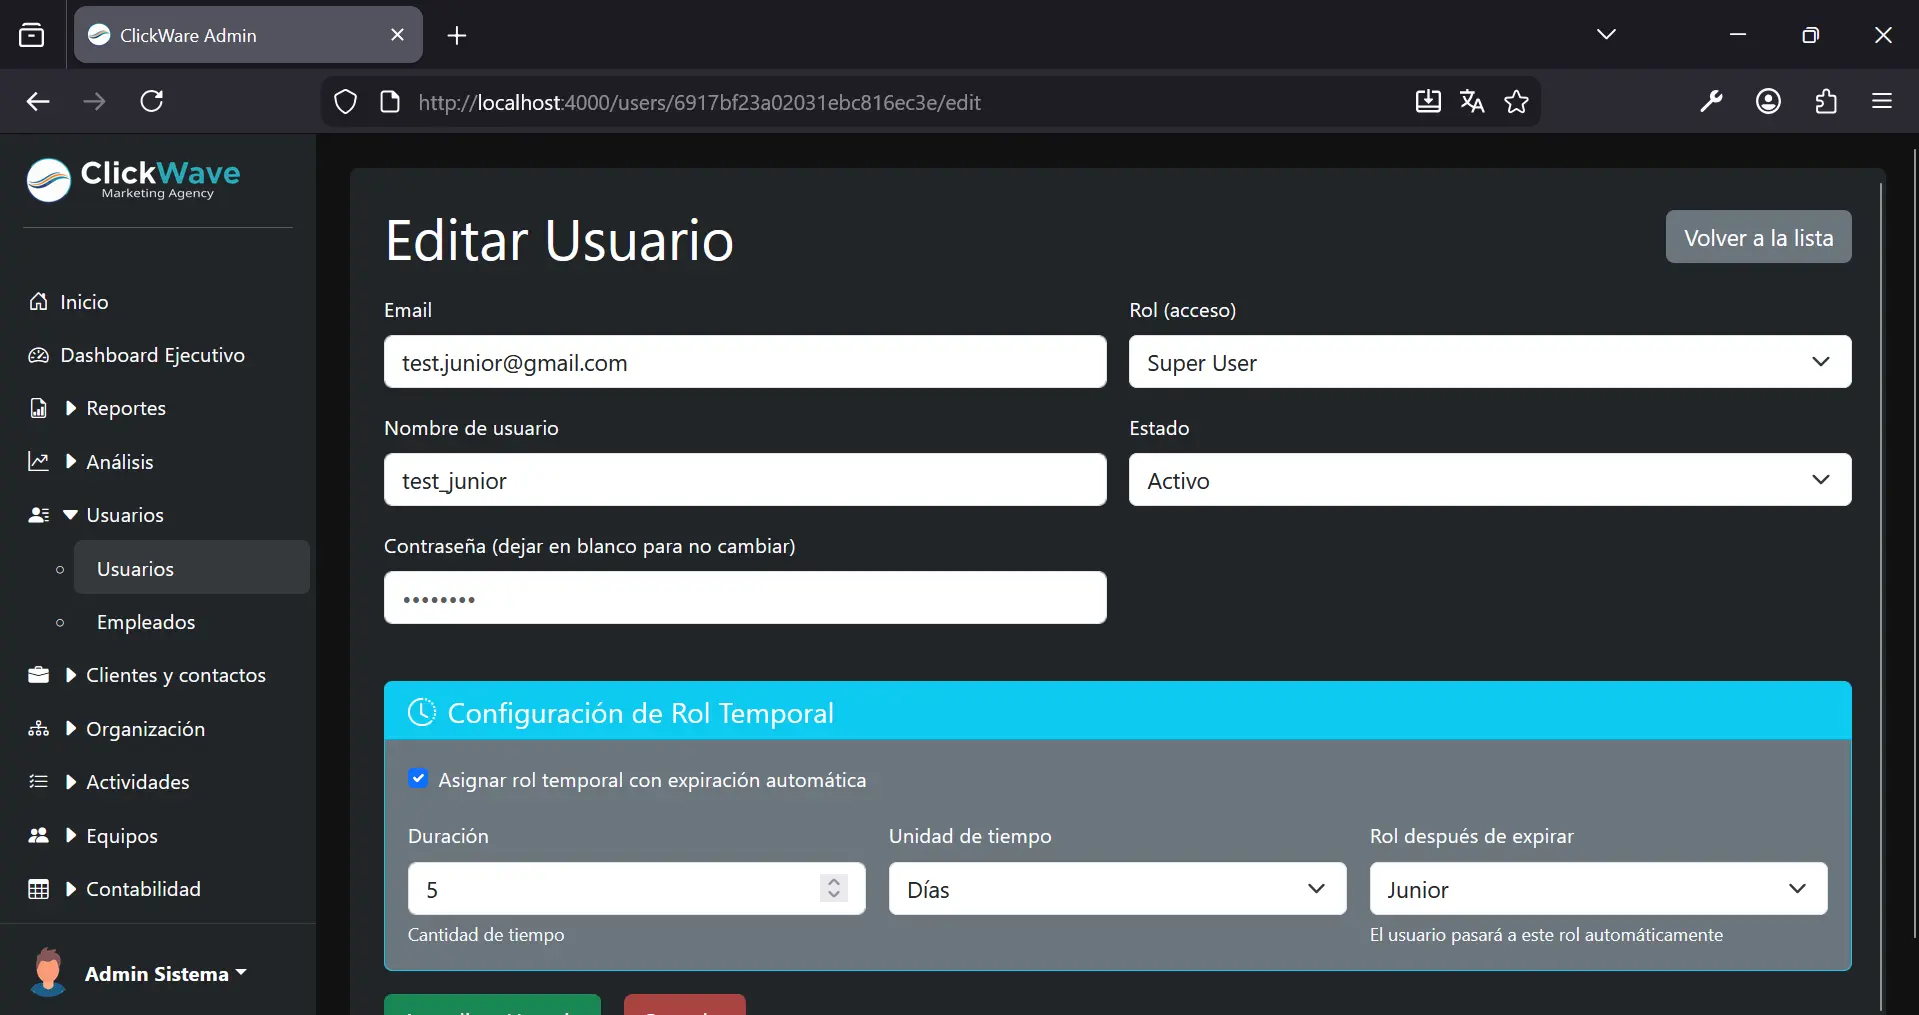
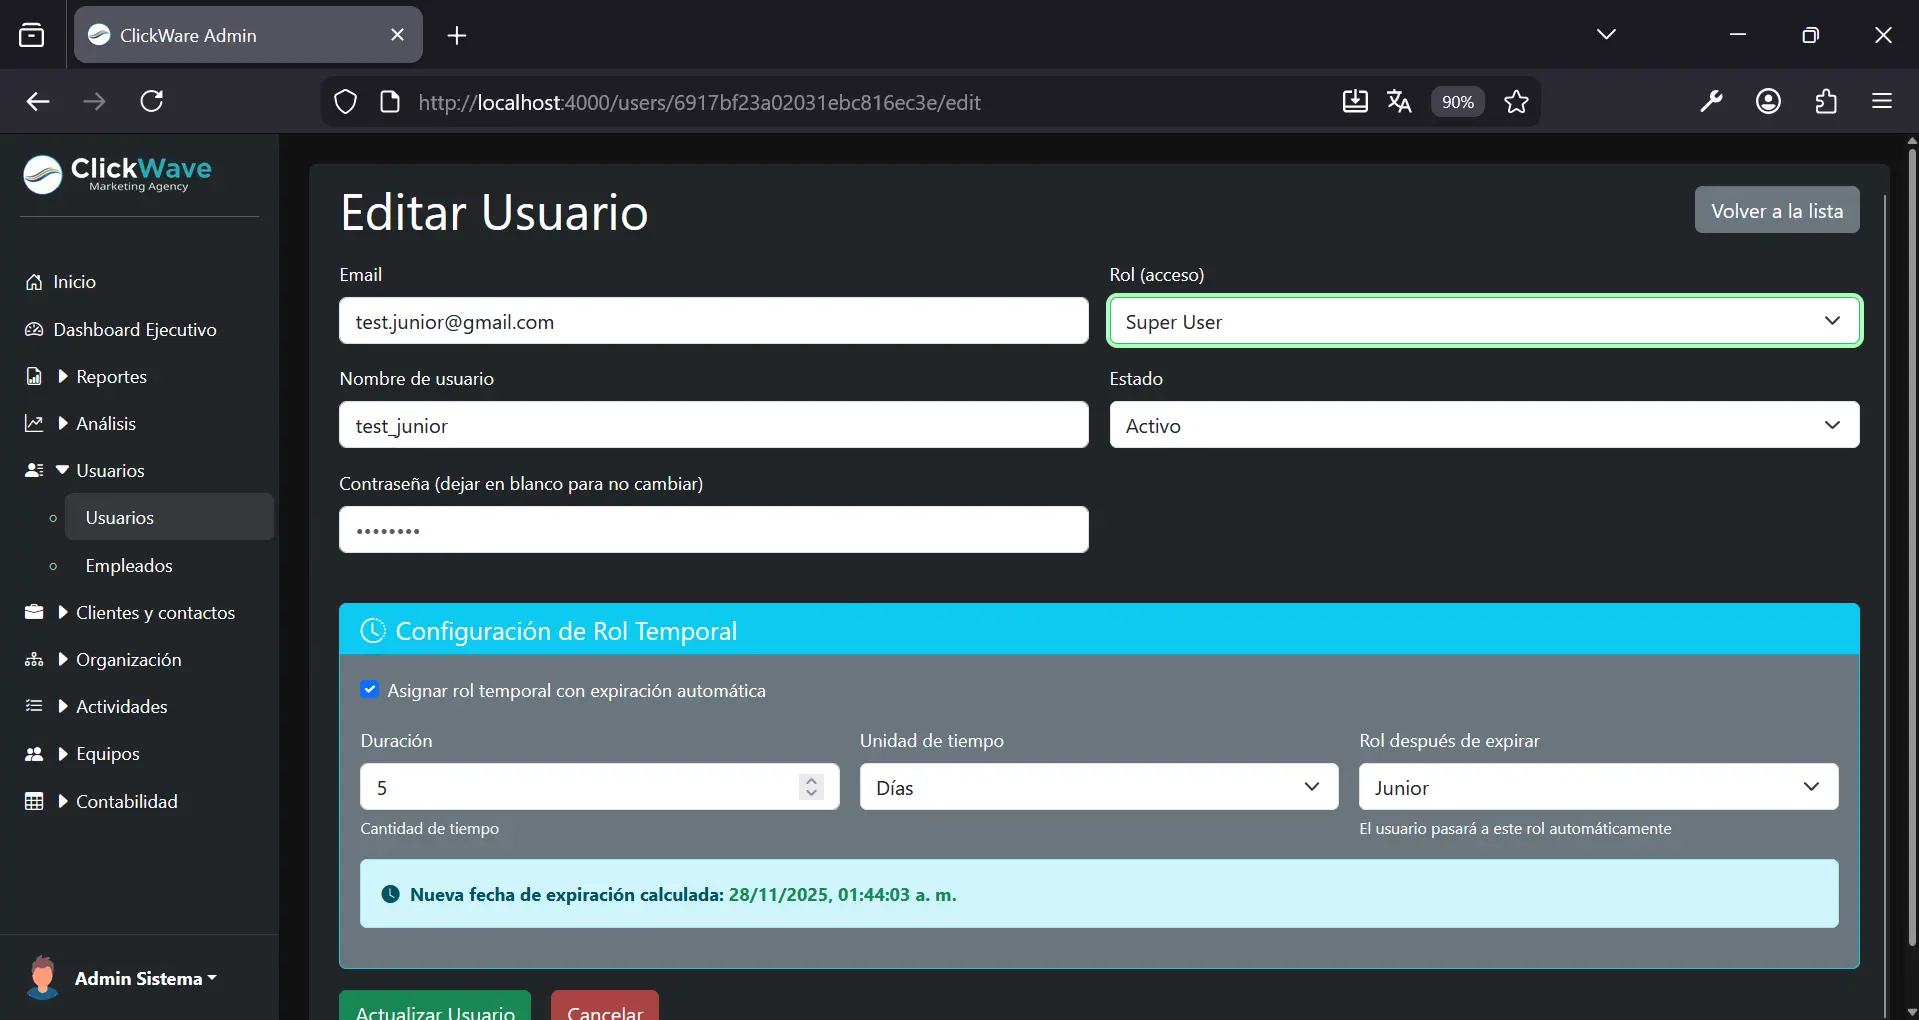
feat: add real-time expiration date preview for temporary roles and improve role display in user views

diff --git a/src/models/UserModel.js b/src/models/UserModel.js
@@ -82,11 +82,11 @@ class UserModel extends BaseModel {
   }
 
   async findAll() {
-    return super.findAll(['role_id']); // populate automático
+    return super.findAll(['role_id', 'fallback_role_id']); // populate automático
   }
 
   async findById(id) {
-    return super.findById(id, ['role_id']); // populate automático
+    return super.findById(id, ['role_id', 'fallback_role_id']); // populate automático
   }
 
   // Método para buscar por username

diff --git a/README.md b/README.md
@@ -1391,6 +1391,7 @@ Muestra la gestión de roles y la configuración de permisos específicos para c
 El sistema permite asignar roles con expiración automática, ideal para accesos temporales, períodos de prueba o permisos limitados en el tiempo. La configuración es flexible, permitiendo duraciones desde segundos hasta meses. Al expirar el plazo, el sistema revierte automáticamente al rol de respaldo configurado mediante un servicio de cron jobs que verifica cada minuto y genera logs de auditoría completos. La interfaz incluye controles intuitivos con checkbox de activación, selectores de duración y rol de respaldo, alertas visuales de tiempo restante, y validaciones de seguridad para eliminación de usuarios y trazabilidad de cambios. Casos de uso: empleados en período de prueba, permisos de emergencia para developers, consultores externos con acceso limitado temporalmente.
 
 ![Sistema de Roles Temporales](assets/screenshots/temporal-roles-overview.webp)
+![Sistema de Roles Temporales](assets/screenshots/temporal-roles-overview2.webp)
 
 ---
 
